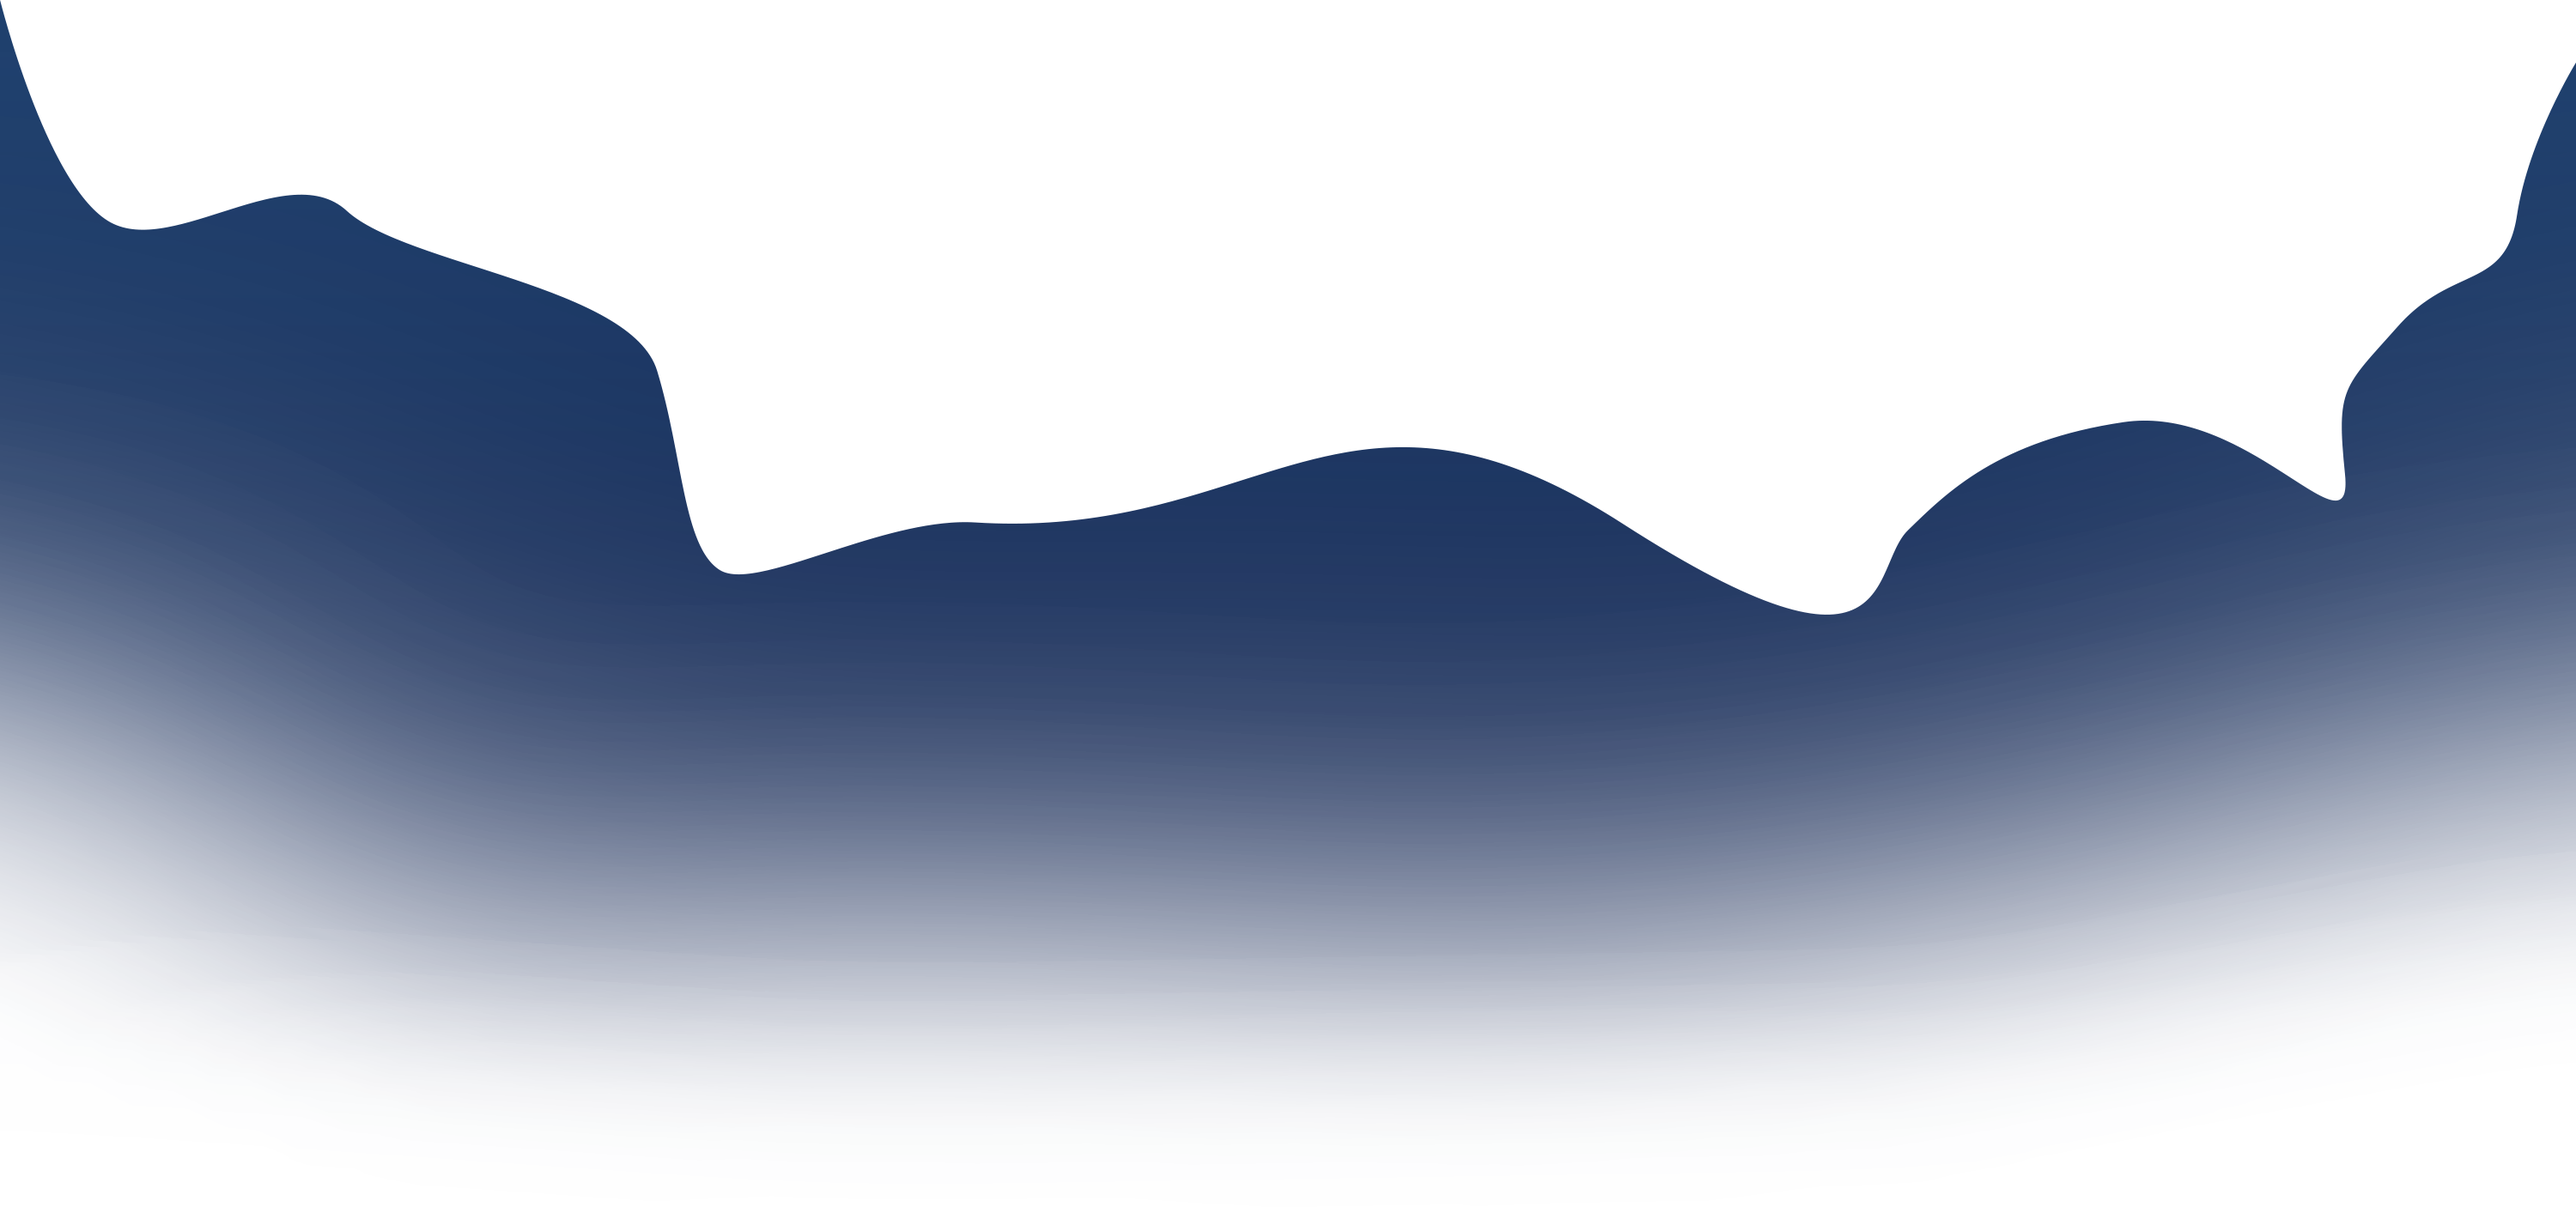
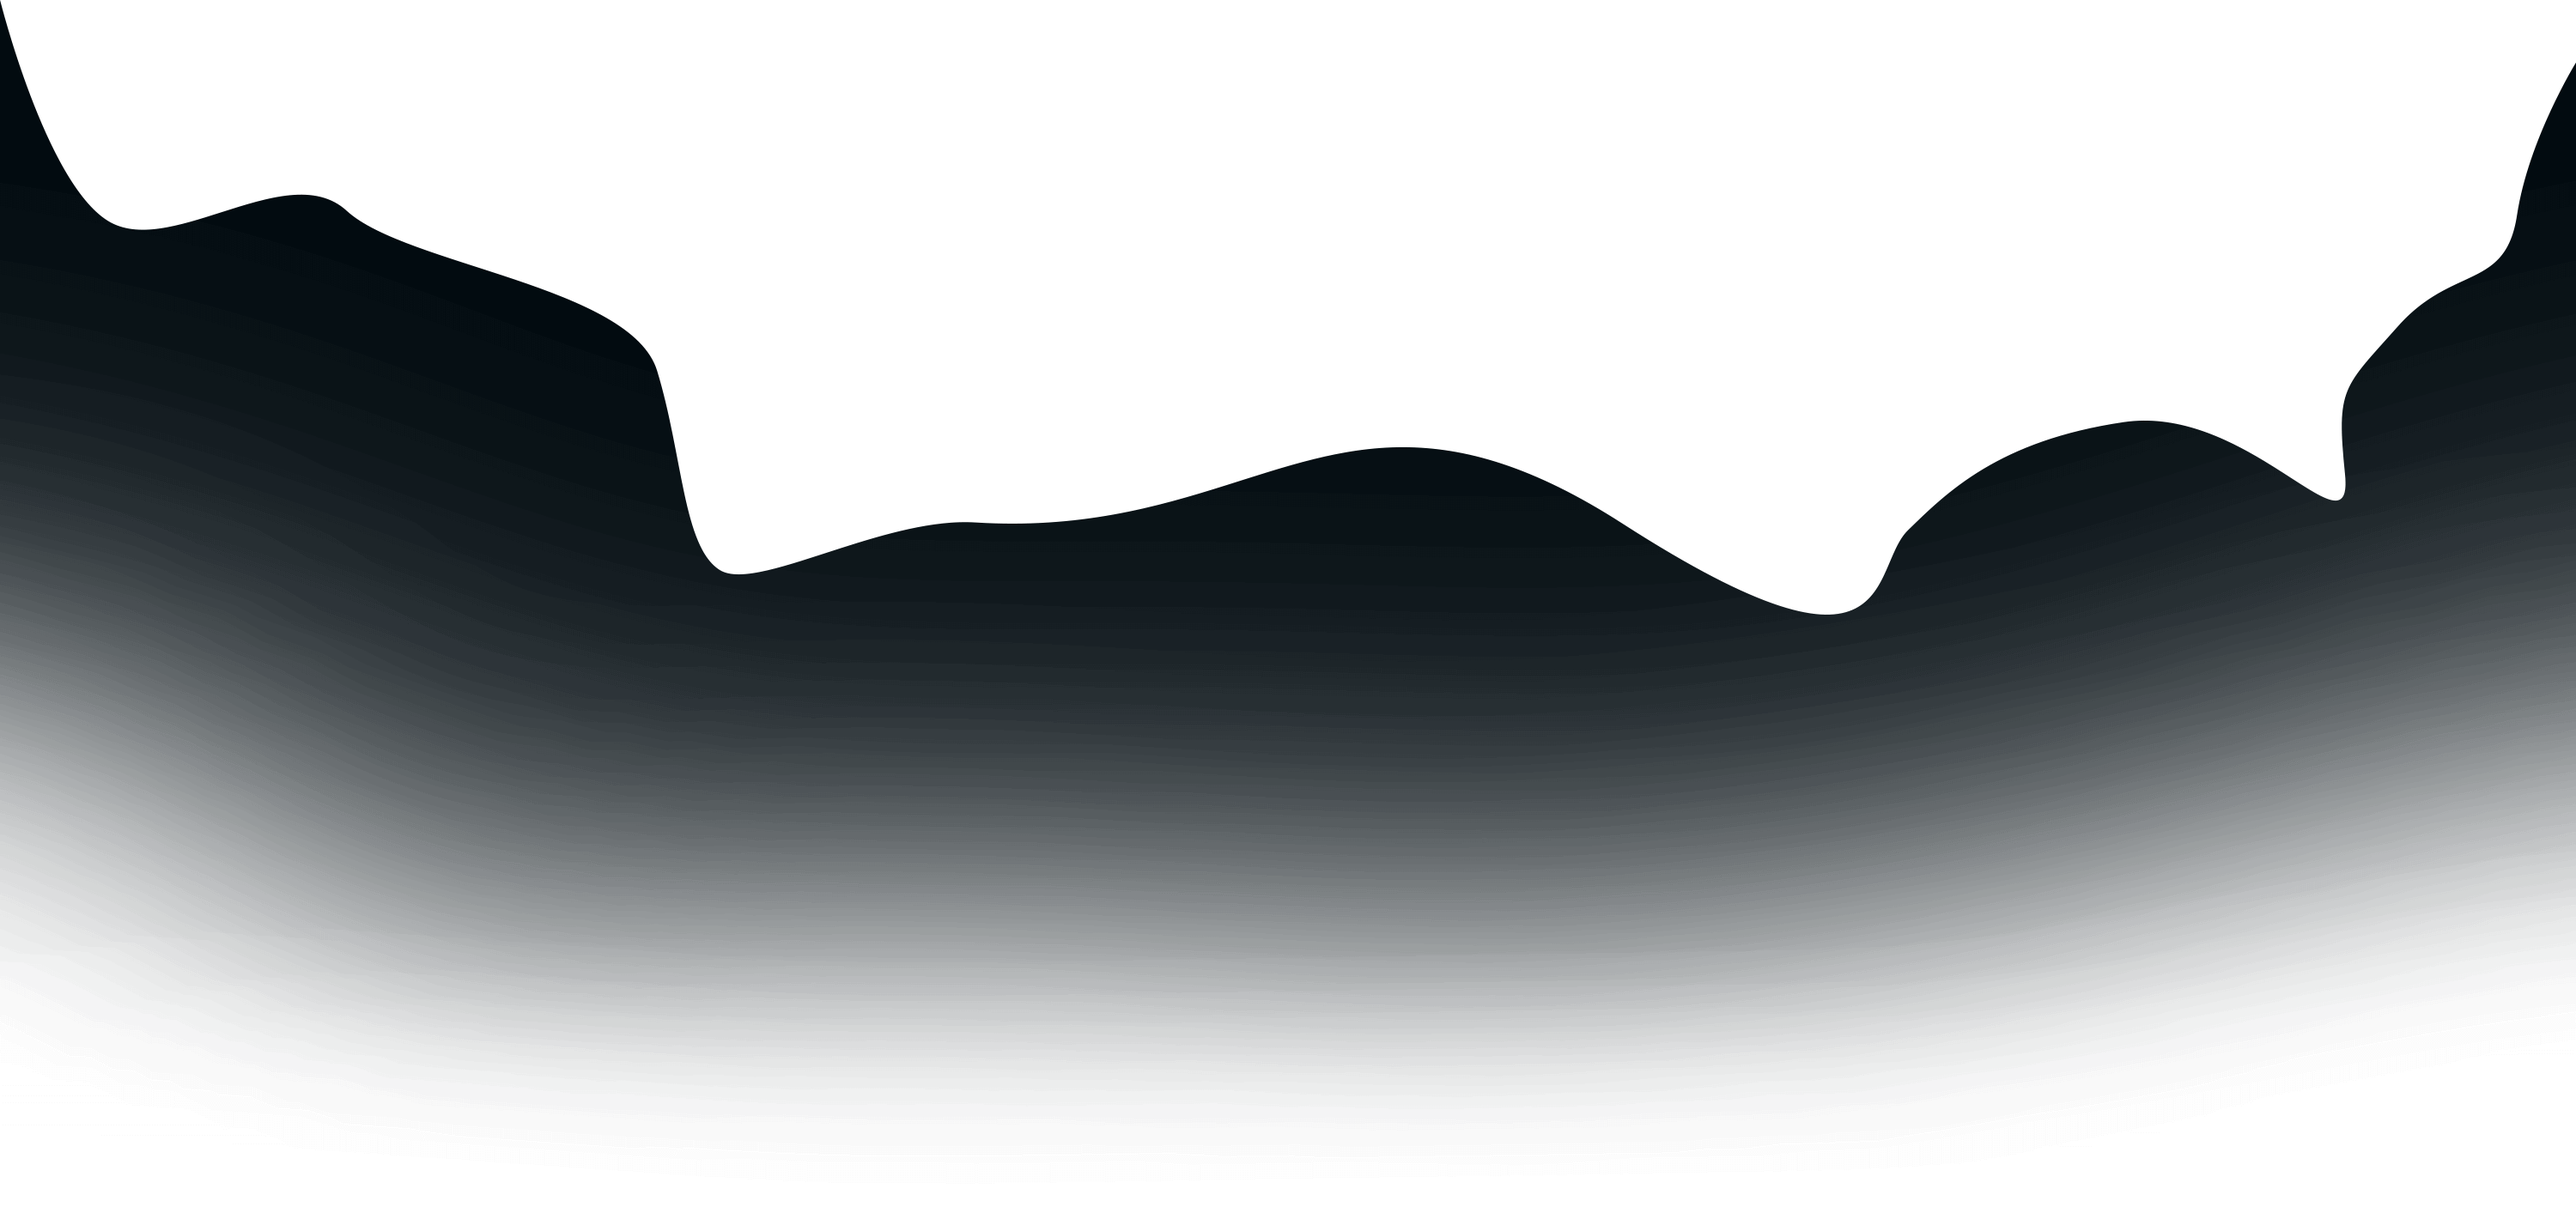
Add squid, start testing form

diff --git a/src/pages/index.js b/src/pages/index.js
@@ -21,7 +21,7 @@ import instagram from '../images/icon-instagram.svg';
 import linkedin from '../images/icon-linkedin.svg';
 import logotd from '../images/logo-td.svg';
 
-import jellyfish from '../images/jellyfish-group.svg';
+import squidsilhouette from '../images/squid-silhouette.png';
 import bottomburm from '../images/bottom-burm.svg';
 import howdy from '../images/howdy.svg';
 import anglerbright from '../images/angler-bright.png';
@@ -151,7 +151,7 @@ class App extends React.Component {
     return (
       <Parallax ref={ref => (this.parallax = ref)} pages={6}>
 
-        <OceanBG offset={0} speed={1} factor={5} className={'oceanbg'}   />
+        <OceanBG offset={0} speed={0} factor={6} className={'oceanbg'}   />
         <SunRaysfromGod offset={0} speed={.25} factor={6}  className={'sunrays'} style={{ backgroundSize: 'contain' }} />
         <ParallaxLayer offset={0} speed={1}>
           <UpBubblesOneTop>
@@ -204,9 +204,12 @@ class App extends React.Component {
             <SVG icon="bubble" width={3} left="66%" top="21%" />
           </UpBubblesThree>
         </ParallaxLayer>
-        <ParallaxLayer speed={-0.2} offset={1} factor={1} className={'background-01'} />
+        <ParallaxLayer offset={2.2} speed={-0.45} style={{ display: 'grid', justifyContent: 'right' }}>
+          <img src={squidsilhouette} className="squidSilhouette" />
+        </ParallaxLayer>
+        <ParallaxLayer offset={4.4} speed={-0.4} factor={1} className={'background-01'} />
 
-        <ParallaxLayer offset={5.4} speed={0.2} className={'foreground--coral'}>
+        <ParallaxLayer offset={4} speed={-0.3} factor={2} className={'background--cliffs'}>
           <UpBubblesOne>
             <SVG icon="bubble" width={3} left="26%" top="32%" />
             <SVG icon="bubble" width={2} left="30%" top="34%" />
@@ -306,21 +309,26 @@ class App extends React.Component {
         </ParallaxLayer>
 
         <ParallaxLayer offset={5} speed={-0}>
-
           <Container>
-          <Hero>
-            <FormTitle className="item--contained">Let's have a conversation</FormTitle>
-            <form class="contact__form item--contained" name="contact" method="POST" data-netlify="true">
-              <FloatingLabel id='name' name='name' placeholder='Name' type='text' styles={inputStyle} required />
-              <FloatingLabel id='email' name='email' placeholder='Email' type='email' styles={inputStyle} required />
-              <FloatingLabel id='comments' name='comments' placeholder='What are you working on?' styles={inputStyle} type='text' requried />
-            	<button className="btn btn--actionjackson--full" type="submit" styles={inputStyle}><span className="btn__text">Send message</span> <FaPaperPlane size="1.45em" /></button>
-             </form>
-             </Hero>
-           </Container>
-
+            <Hero>
+              <FormTitle className="item--contained">Let's have a conversation</FormTitle>
+              <form class="contact__form item--contained" name="contactme" method="post" data-netlify="true" data-netlify-honeypot="bot-field" onSubmit={this.handleSubmit} >
+              {/* The `form-name` hidden field is required to support form submissions without JavaScript */}
+                <input type="hidden" name="form-name" value="contact" />
+                <p hidden>
+                  <label>
+                    Don’t fill this out:{" "}
+                    <input name="bot-field" onChange={this.handleChange} />
+                  </label>
+                </p>
+                <FloatingLabel id='name' name='name' placeholder='Name' type='text' styles={inputStyle} required />
+                <FloatingLabel id='email' name='email' placeholder='Email' type='email' styles={inputStyle} required />
+                <FloatingLabel id='comments' name='comments' placeholder='What are you working on?' styles={inputStyle} type='text' requried />
+                <button className="btn btn--actionjackson--full" type="submit" styles={inputStyle}><span className="btn__text">Send message</span> <FaPaperPlane size="1.45em" /></button>
+              </form>
+            </Hero>
+          </Container>
         </ParallaxLayer>
-
 
         <ParallaxLayer offset={0} speed={1}>
           <HeaderContainer className="header__container">

diff --git a/src/assets/css/krabby.scss b/src/assets/css/krabby.scss
@@ -125,8 +125,8 @@ button {
   background-position: top center;
 }
 .oceanbg {
-  background: rgb(1,13,30);
-  background: linear-gradient(360deg, rgba(1,13,30,1) 0%, rgba(0,49,98,1) 78%, rgba(0,101,157,1) 100%);
+  background: rgb(0,5,10);
+  background: linear-gradient(360deg, rgba(0,5,10,1) 0%, rgba(0,49,98,1) 78%, rgba(0,101,157,1) 100%);
 }
 
 
@@ -395,7 +395,7 @@ $button-text-color: $white;
 .shottt-topaz {
   object-fit: cover;
   grid-area: image;
-  width: 940px;
+  width: 980px;
   justify-self: left;
   @media (max-width: 900px) {
     width: 100%;
@@ -425,11 +425,18 @@ $button-text-color: $white;
 .shottt-payscape {
   object-fit: cover;
   grid-area: image;
-  width: 940px;
+  width: 980px;
   justify-self: right;
   @media (max-width: 900px) {
     width: 100%;
   }
+}
+
+.squidSilhouette {
+  width: 800px;
+  opacity: .35;
+  position: relative;
+  right: -200px;
 }
 
 
@@ -456,13 +463,22 @@ $button-text-color: $white;
   background-size: contain !important;
 }
 
-.foreground--coral {
-  background: url('../../images/foreground-coral.png');
-  background-position: bottom;
+.background--cliffs {
+  // background-image: url('../../images/foreground-coral.png');
+  // background-position: bottom;
   background-repeat: no-repeat;
-  height: 1000px;
-  width: 100%;
-  background-size: cover !important;
+  // background-color: #666;
+  // width: 100%;
+  // background-size: cover !important;
+  // height: 100%;
+  // background-size: contain;
+  // background-repeat: no-repeat;
+  background-image:
+    url('../../images/bg-cliff-left.png'),
+    url('../../images/bg-cliff-right.png');
+  background-position:
+    bottom left,
+    bottom right;
 }
 
 .text__link--yellow {
